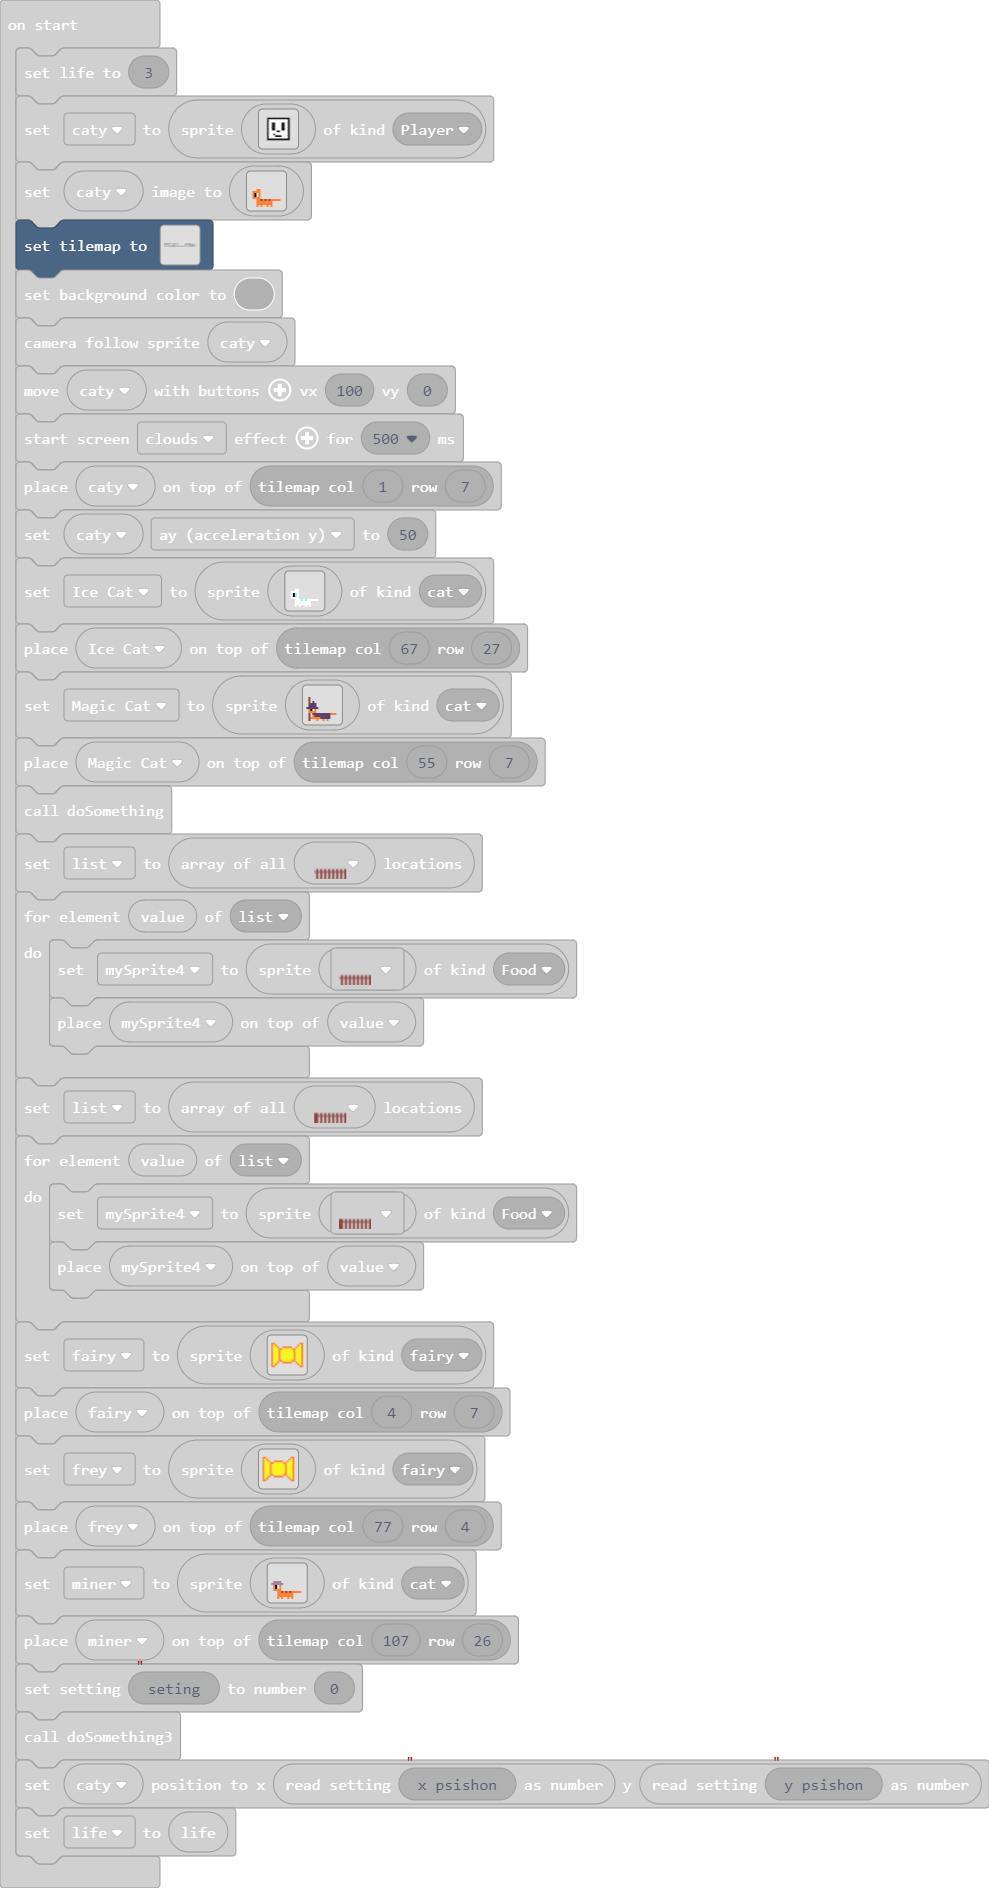
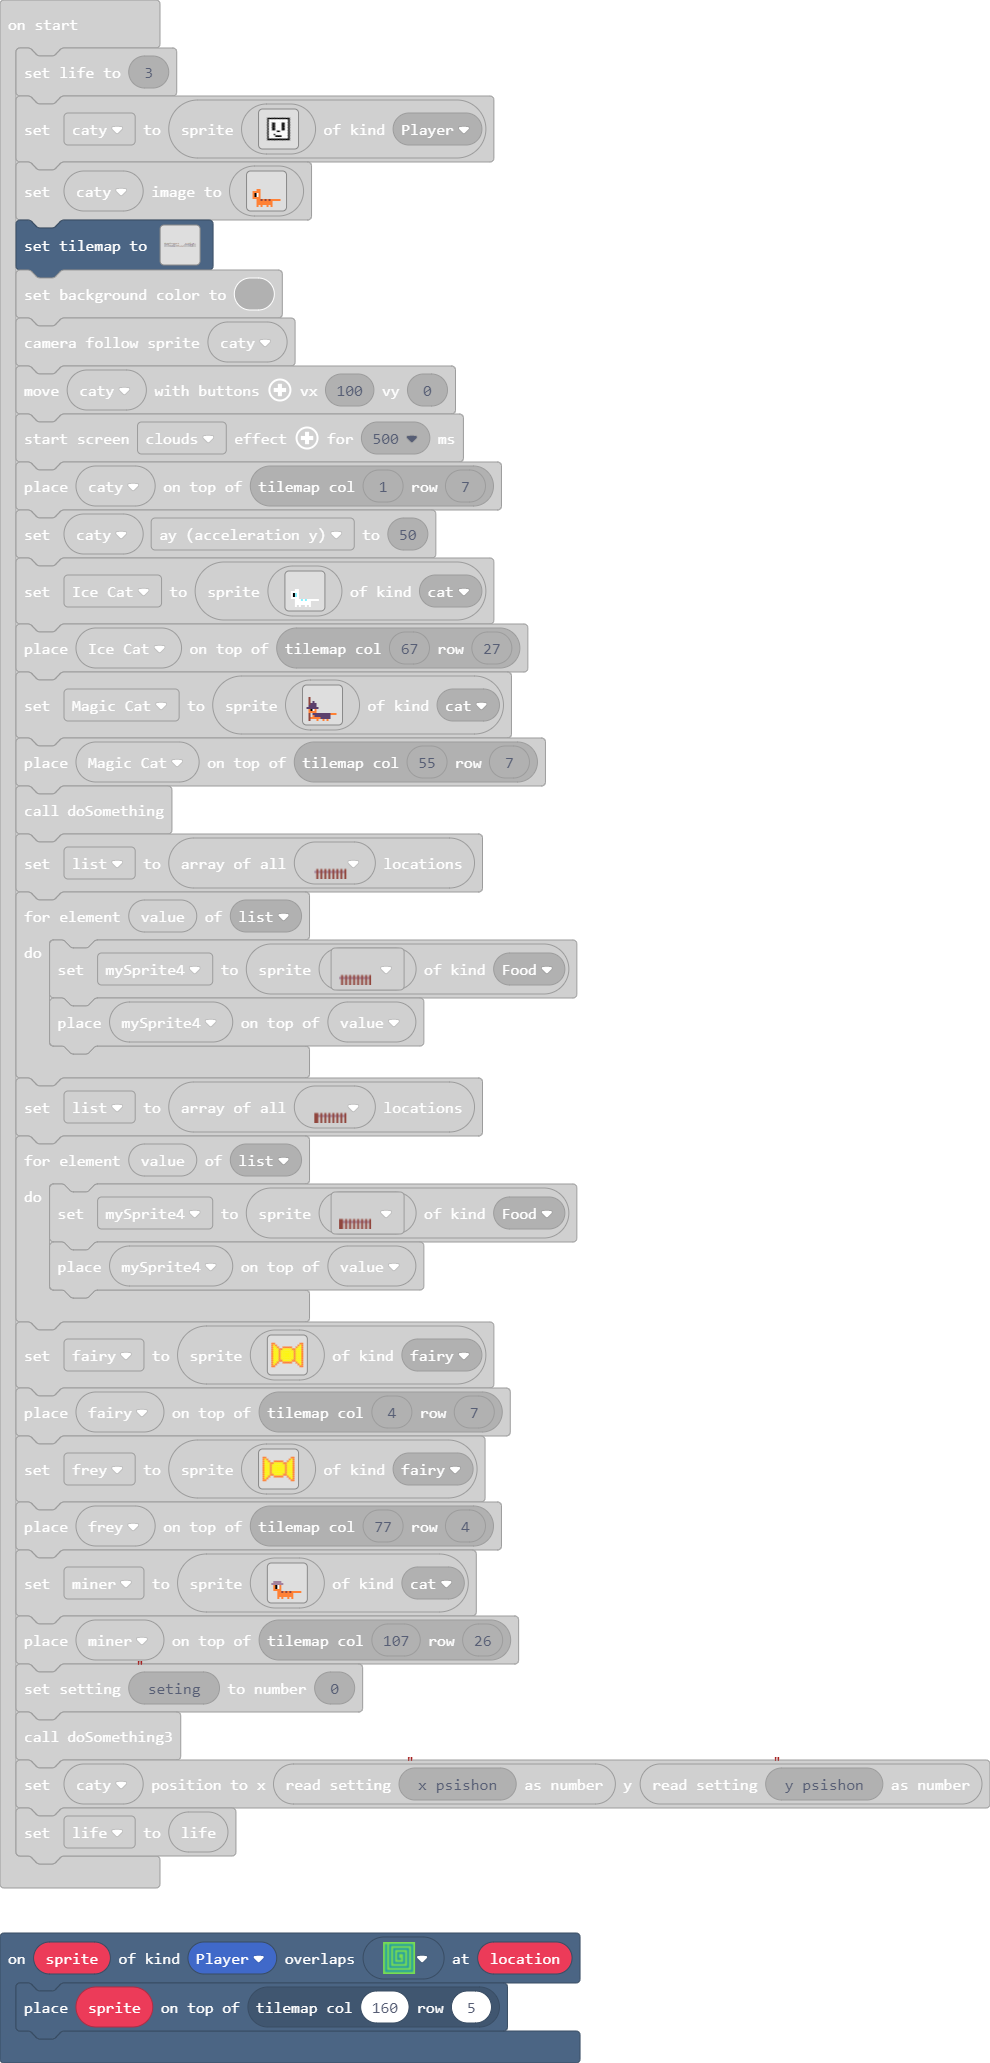
Update main.blocks, main.ts

Changed region(s): [[0.0, 0.0, 1.0, 1.0]]

diff --git a/main.ts b/main.ts
@@ -579,6 +579,101 @@ f f f f b b f f f b f f f f f f
 f f f f f f f f f f f f f f b f 
 b f f f f f f f f f f f f f f b 
 `
+    //% blockIdentity=images._tile
+    export const tile30 = img`
+a a a a a a a a a a a a a a a a 
+a 8 8 8 8 8 8 8 8 a 8 8 8 8 8 a 
+a 8 8 8 8 8 8 8 8 a 8 8 8 8 8 a 
+a a a a a a a a a a a a a a a a 
+a 8 8 8 8 8 a 8 8 8 8 8 a 8 8 a 
+a 8 8 8 8 8 a 8 8 8 8 8 a 8 8 a 
+a a a a a a a a a a a a a a a a 
+a 8 8 a 8 8 8 8 8 8 8 8 8 8 8 a 
+a 8 8 a 8 8 8 8 8 8 8 8 8 8 8 a 
+a a a a a a a a a a a a a a a a 
+a 8 8 8 8 8 8 a 8 8 8 8 8 8 8 a 
+a 8 8 8 8 8 8 a 8 8 8 8 8 8 8 a 
+a a a a a a a a a a a a a a a a 
+a 8 8 8 8 8 8 8 8 8 a 8 8 8 8 a 
+a 8 8 8 8 8 8 8 8 8 a 8 8 8 8 a 
+a a a a a a a a a a a a a a a a 
+`
+    //% blockIdentity=images._tile
+    export const tile31 = img`
+f f f f f f f f f f f f f f f f 
+f . . . . . . . . . . . . . . f 
+f . f f f f . . . . . . . . . f 
+f . f . . . . . . . . . . . . f 
+f . f . . . . . . . . . . . . f 
+f . f . . . . . . . . . . . . f 
+f . . . . . . . . . . . . . . f 
+f . . . . . . . . . . . . . . f 
+f . . . . . . . . . . . . . . f 
+f . . . . . . . . . . . . . . f 
+f . . . . . . . . . . . . f . f 
+f . . . . . . . . . . . . f . f 
+f . . . . . . . . . . . . f . f 
+f . . . . . . . . . f f f f . f 
+f . . . . . . . . . . . . . . f 
+f f f f f f f f f f f f f f f f 
+`
+    //% blockIdentity=images._tile
+    export const tile32 = img`
+. . . . . . . . . . . . . . . . 
+. . . . . . . . . . . . . . . . 
+. . . . . . . . . . . . . . . . 
+. . . . . . . . . . . . . . . . 
+. . . . . . . . . . . . . . . . 
+. . . . . . . . . . . . . . . . 
+. . . . . . . . . . . . . . . . 
+. . . . . . . . . . . . . . . . 
+. . . . . . . . . . . . . . . . 
+. . . . . . . . . . . . . . . . 
+. . . . . . . . . . . . . . . . 
+. . . . . . . . . . . . . . . . 
+. . . . . . . . . . . . . . . . 
+. . . . . . . . . . . . . . . . 
+. . . . . . . . . . . . . . . . 
+. . . . . . . . . . . . . . . . 
+`
+    //% blockIdentity=images._tile
+    export const tile33 = img`
+a a a a a a e e e e . . . . . . 
+a 8 8 8 8 8 e e e e . . . . . . 
+a 8 8 8 8 8 e e e e . . . . . . 
+a a a a a a e e e e . . . . . . 
+a 8 8 8 8 8 e e e e . . . . . . 
+a 8 8 8 8 8 e e e e . . . . . . 
+a a a a a a e e e e . . . . . . 
+a 8 8 a 8 8 e e e e . . . . . . 
+a 8 8 a 8 5 e e e e 5 . . . . . 
+a a a a a 5 e e e e 5 . . . . . 
+a 8 8 8 8 8 e e e e . . . . . . 
+a 8 8 8 8 8 e e e e . . . . . . 
+a a a a a a e e e e . . . . . . 
+a 8 8 8 8 8 e e e e . . . . . . 
+a 8 8 8 8 8 e e e e . . . . . . 
+a a a a a a e e e e . . . . . . 
+`
+    //% blockIdentity=images._tile
+    export const tile34 = img`
+7 7 7 7 7 7 7 7 7 7 7 7 7 7 7 7 
+7 6 7 6 6 6 6 6 6 6 6 6 6 6 6 7 
+7 6 7 6 7 7 7 7 7 7 7 7 7 7 6 7 
+7 6 7 6 7 6 6 6 6 6 6 6 6 7 6 7 
+7 6 7 6 7 6 7 7 7 7 7 7 6 7 6 7 
+7 6 7 6 7 6 7 6 6 6 6 7 6 7 6 7 
+7 6 7 6 7 6 7 6 7 7 6 7 6 7 6 7 
+7 6 7 6 7 6 7 6 7 7 6 7 6 7 6 7 
+7 6 7 6 7 6 7 6 6 7 6 7 6 7 6 7 
+7 6 7 6 7 6 7 7 7 7 6 7 6 7 6 7 
+7 6 7 6 7 6 6 6 6 6 6 7 6 7 6 7 
+7 6 7 6 7 7 7 7 7 7 7 7 6 7 6 7 
+7 6 7 6 6 6 6 6 6 6 6 6 6 7 6 7 
+7 6 7 7 7 7 7 7 7 7 7 7 7 7 6 7 
+7 6 6 6 6 6 6 6 6 6 6 6 6 6 6 7 
+7 7 7 7 7 7 7 7 7 7 7 7 7 7 7 7 
+`
 }
 controller.menu.onEvent(ControllerButtonEvent.Pressed, function () {
     blockSettings.remove("seting")
@@ -733,6 +828,9 @@ controller.left.onEvent(ControllerButtonEvent.Pressed, function () {
             pause(1)
         }
     }
+})
+scene.onOverlapTile(SpriteKind.Player, myTiles.tile34, function (sprite, location) {
+    tiles.placeOnTile(sprite, tiles.getTileLocation(160, 5))
 })
 controller.B.onEvent(ControllerButtonEvent.Pressed, function () {
     if (carge_or_not == 1) {
@@ -2223,7 +2321,7 @@ caty.setImage(img`
 . . . 4 . 4 . . 4 . 4 . . . . . 
 `)
 tiles.setTilemap(tiles.createTilemap(
[2 lines of base64/hex data omitted]
             img`
 . . . . . . . . . . . . . . . . . . . . . . . . . . . . . . . . . . . . . . . . . . . . . . . . . . . . . . . . . . . . . . . . . . . . . . . . . . . . . . . . . . . . . . . . . . . . . . . . . . . . . . . . . . . . . . . . . . . . . . . . . . . . . . . . . . . . . . . . . . . . . . . . . . . . . . . . . . . . . . . . . . . . . . . . . . . . . . . . . . . . . . . . . . . . . . . . . . . . . . . . 
 . . . . . . . . . . . . . . . . . . . . . . . . . . . . . . . . . . . . . . . . . . . . . . . . . . . . . . . . . . . . . . . . . . . . . . . . . . . . . . . . . . . . . . . . . . . . . . . . . . . . . . . . . . . . . . . . . . . . . . . . . . . . . . . . . . . . . . . . . . . . . . . . . . . . . . . . . . . . . . . . . . . . . . . . . . . . . . . . . . . . . . . . . . . . . . . . . . . . . . . . 
@@ -2231,11 +2329,11 @@ tiles.setTilemap(tiles.createTilemap(
 . . . . . . . . . . . . . . . . . . . . . . . . . . . . . . . . . . . . . . . . . . . . . . . . . . . . . . . . . . . . . . . . . . . . . . . . . . . . . . . . . . . . . . . . . . . . . . . . . . . . . . . . . . . . . . . . . . . . . . . . . . . . . . . . . . . . . . . . . . . . . . . . . . . . . . . . . . . . . . . . . . . . . . . . . . . . . . . . . . . . . . . . . . . . . . . . . . . . . . . . 
 . . . . . . . . . . . . . . . . . . . . . . . . . . . . . . . . . . . . . . . . . . . . . . . . . . . . . . . . . . . . . . . . . . . . . . . . . . . . . . . . . . . . . . . . . . . . . . . . . . . . . . . . . . . . . . . . . . . . . . . . . . . . . . . . . . . . . . . . . . . . . . . . . . . . . . . . . . . . . . . . . . . . . . . . . . . . . . . . . . . . . . . . . . . . . . . . . . . . . . . . 
 . . . . . . . . . . . . . . . . . . . . . . . . . . . . . . . . . . . . . . . . . . . . . . . . . . . . . . . . . . . . . . . . . . . . . . . . . . . . . . . . . . . . . . . . . . . 2 . . . . . . . . . . . . . . . . . . . . . . . . . . . . . . . . . . . . . . . . . . . . . . . . . . . . . . . . . . . . . . . . . . . . . . . . . . . . . . . . . . . . . . . . . . . . . . . . . . . . . . . . . . . . 
-. . . . . . . . . . . . . . . . . . . . . . . . . . . . . . . . . . . . . . . . . . . . . . . . . . . . . . . . . . . . . . . . . . . . . . . . . . . . . . . . . . . . . . . . . . . 2 . . . . . . . . . . . . . . . . . . . . . . . . . . . . . . . . . . . . . . . . . . . . . . . . . . . . . . . . . . . . . . . . . . . . . . . . . . . . . . . . . . . . . . . . . . . . . . . . . . . . . . . . . . . . 
-. . . . . . . . . . . . . . . . . . . . . . . . . . . . . . . . . . . . . . . . . . . . . . . . . . . . . . . . . . . . 2 2 2 2 2 2 2 2 2 2 2 2 2 2 2 2 2 2 2 2 2 2 2 . . 2 2 2 2 2 . 2 . . . . . . . . . . . . . . . . . . . . . . . . . . . . . . . . . . . . . . . . . . . . . . . . . . . . . . . . . . 2 2 2 . . . . . . . . . . . . . . . . . . . . . . . . . . . . . . . . . . . . . . . . . . . . . . . 
-. . . . . . . . . . . . . . . . . . . . . 2 2 2 2 2 2 2 2 2 2 2 2 2 2 2 2 2 2 . . . . . . . . . . . . . . 2 2 2 2 2 2 2 2 2 2 2 2 2 2 2 2 2 2 2 2 2 2 2 2 2 2 2 2 2 2 . . 2 2 2 2 2 . . . . . . . . . . . . . . . . . . . . . . . . . . . . . . . . . . . . . . . . . . . 2 . . . 2 2 . . . . . . . . . . . 2 2 2 2 2 2 2 2 2 2 2 2 2 2 2 2 . . . . . . . . . . . . . . . . . . . . . . . . . . . . . . . . . . 
-2 2 2 2 2 2 2 2 2 2 2 2 2 2 2 . . . . . 2 2 2 2 2 2 2 . . . . . . . 2 2 2 2 2 2 2 2 2 2 2 2 2 2 2 2 2 2 2 2 2 2 2 2 2 2 2 2 2 2 2 2 2 2 2 2 2 2 2 2 2 2 2 2 2 2 2 2 2 . . 2 2 2 2 2 2 2 . . . . . . . . . . . . . . . . . . . . . . . . . . . . . . . . . . . . . . . . 2 2 . . . 2 2 2 . . . . . . . . . 2 2 2 2 2 2 2 2 2 2 2 2 2 2 2 2 2 2 . . . . . . . . . . . . . . . . . . . . . . . . . . . . . . . . . 
-2 2 2 2 2 2 2 2 2 2 2 2 2 2 2 2 . . . 2 2 2 2 2 2 2 2 . . . . . . . 2 2 2 2 2 . . . . . . . . . . . . . . 2 2 2 2 2 2 2 2 2 2 2 2 2 2 2 2 2 2 2 2 2 2 2 2 2 2 2 2 . . . . 2 2 2 2 2 2 2 . . . . . . . . . . . . . . . . . . . . . . . . . . . . . . . . . . . . . . . 2 2 2 . . . 2 2 2 . . . . . . . . 2 2 2 2 2 2 2 2 2 2 2 2 2 2 2 2 2 2 2 2 2 2 . . . . . . . . . . . . . . . . . . . . . . . . . . . . . . 
+. . . . . . . . . . . . . . . . . . . . . . . . . . . . . . . . . . . . . . . . . . . . . . . . . . . . . . . . . . . . . . . . . . . . . . . . . . . . . . . . . . . . . . . . . . . 2 . . . . . . . . . . . . . . . . . . . . . . . . . . . . . . . . . . . . . . . . . . . . . . . . . . . . . . . . . . . . . . . . . . . . . . . . . . . . . . . . . . . . . . . . 2 2 2 2 2 2 . . . . . . . . . . . . . . 
+. . . . . . . . . . . . . . . . . . . . . . . . . . . . . . . . . . . . . . . . . . . . . . . . . . . . . . . . . . . . 2 2 2 2 2 2 2 2 2 2 2 2 2 2 2 2 2 2 2 2 2 2 2 . . 2 2 2 2 2 . 2 . . . . . . . . . . . . . . . . . . . . . . . . . . . . . . . . . . . . . . . . . . . . . . . . . . . . . . . . . . 2 2 2 . . . . . . . . . . . . . . . . . . . . . . . . . 2 2 2 . . . . 2 2 . . . . . . . . . . . . . 
+. . . . . . . . . . . . . . . . . . . . . 2 2 2 2 2 2 2 2 2 2 2 2 2 2 2 2 2 2 . . . . . . . . . . . . . . 2 2 2 2 2 2 2 2 2 2 2 2 2 2 2 2 2 2 2 2 2 2 2 2 2 2 2 2 2 2 . . 2 2 2 2 2 . . . . . . . . . . . . . . . . . . . . . . . . . . . . . . . . . . . . . . . . . . . 2 . . . 2 2 . . . . . . . . . . . 2 2 2 2 2 2 2 2 2 2 2 2 2 2 2 2 . . . . . . . . . . . 2 . 2 . . . . . . 2 . . . . . . . . . . . . . 
+2 2 2 2 2 2 2 2 2 2 2 2 2 2 2 . . . . . 2 2 2 2 2 2 2 . . . . . . . 2 2 2 2 2 2 2 2 2 2 2 2 2 2 2 2 2 2 2 2 2 2 2 2 2 2 2 2 2 2 2 2 2 2 2 2 2 2 2 2 2 2 2 2 2 2 2 2 2 . . 2 2 2 2 2 2 2 . . . . . . . . . . . . . . . . . . . . . . . . . . . . . . . . . . . . . . . . 2 2 . . . 2 2 2 . . . . . . . . . 2 2 2 2 2 2 2 2 2 2 2 2 2 2 2 2 2 2 . . . . . . . . . 2 . . 2 . . . . . . 2 . . . . . . . . . . . . . 
+2 2 2 2 2 2 2 2 2 2 2 2 2 2 2 2 . . . 2 2 2 2 2 2 2 2 . . . . . . . 2 2 2 2 2 . . . . . . . . . . . . . . 2 2 2 2 2 2 2 2 2 2 2 2 2 2 2 2 2 2 2 2 2 2 2 2 2 2 2 2 . . . . 2 2 2 2 2 2 2 . . . . . . . . . . . . . . . . . . . . . . . . . . . . . . . . . . . . . . . 2 2 2 . . . 2 2 2 . . . . . . . . 2 2 2 2 2 2 2 2 2 2 2 2 2 2 2 2 2 2 2 2 2 2 . . . . . 2 . . . 2 . . . . . . . . . . . . . . . . . . . . 
 2 2 2 2 2 2 2 2 2 2 2 2 2 2 2 2 . . . 2 2 2 2 2 2 2 2 2 . . . . . . 2 2 2 2 2 . . . . . . . . . . . . . . . 2 2 2 2 2 2 2 2 2 2 2 2 2 2 2 2 2 2 2 2 2 2 2 2 2 2 . . . . . . 2 2 2 2 2 2 . . . . . . . . . . . . . . . . . . . . . . . . . . . . . . . . . . . . . . 2 2 2 2 . . . 2 2 2 . . . . . . . . 2 2 2 2 2 2 2 2 2 2 2 2 2 2 2 2 2 2 2 2 2 2 2 2 2 2 2 2 2 2 2 2 2 2 2 2 2 2 2 2 2 2 2 2 2 2 2 2 2 2 2 2 
 2 2 2 2 2 2 2 2 2 2 2 2 2 2 2 2 . . . 2 2 2 2 2 2 2 2 2 2 . . . . . . 2 2 2 . . . . . . . . . . . . . . . . . . 2 2 2 2 2 2 2 2 2 2 2 2 2 2 2 2 2 2 2 2 2 2 2 . . . . . . . . 2 2 2 2 2 . . . . . . . . . . . . . . . . . . . . . . . . . . . . . . . . . . . . . 2 2 2 2 2 . . . 2 2 2 2 2 2 2 2 2 2 2 2 2 2 2 2 2 2 2 2 2 2 2 2 2 2 2 2 2 2 2 2 2 2 2 2 2 2 2 2 2 2 2 2 2 2 2 2 2 2 2 2 2 2 2 2 2 2 2 2 2 2 2 
 2 2 2 2 2 2 2 2 2 2 2 2 2 2 2 . . . . 2 2 2 2 2 2 2 2 2 2 . . . . . . 2 2 2 . . . . . . . . . . . . . . . . . . . . . . . . . . 2 2 2 2 2 2 2 2 2 2 2 2 2 2 . . . . . . . . . . 2 2 2 2 . . . . . . . . . . . . . . . . . . . . . . . . . . . . . . . . . . . . 2 2 2 2 2 2 . . . 2 2 2 2 2 2 2 2 2 2 2 2 2 2 2 2 2 2 2 2 2 2 2 2 2 2 2 2 2 2 2 2 2 2 2 2 2 2 2 2 2 2 2 2 2 2 2 2 2 2 2 2 2 2 2 2 2 2 2 2 2 2 2 
@@ -2247,8 +2345,8 @@ tiles.setTilemap(tiles.createTilemap(
 2 2 2 2 2 . . . . . . . . 2 2 2 2 2 2 2 2 2 2 2 2 2 2 2 2 2 2 2 2 2 2 2 2 2 2 2 2 2 2 2 2 2 2 2 2 2 2 2 2 2 2 2 2 2 2 2 2 2 2 . . . 2 2 2 2 2 2 2 2 2 2 2 2 2 2 2 2 2 2 2 2 2 2 2 2 2 2 2 . . . . . . . . . . . . . . . . . . . . . . . . . . . . . 2 2 2 2 2 2 2 2 2 2 2 2 2 2 2 2 2 2 2 2 2 2 2 2 2 2 2 2 2 2 2 2 2 . . 2 2 2 2 2 2 2 2 2 . . . . . . . . . . . . . 2 2 2 2 2 2 2 2 2 2 2 2 2 2 2 2 2 2 2 2 2 
 2 2 2 2 2 . . . . . . . 2 2 2 2 2 2 2 2 2 2 2 2 2 2 2 2 2 2 2 2 2 2 2 2 2 2 2 2 2 2 2 2 2 2 2 2 2 2 2 2 2 2 2 2 2 2 2 2 2 2 2 . . . 2 2 2 2 2 2 2 2 2 2 2 2 2 2 2 2 2 2 2 2 2 2 2 2 2 2 2 . . . . . . . . . . . . . . . . . . . . . . . . . . . . 2 2 2 2 2 2 2 2 2 2 2 2 2 2 2 2 2 2 2 2 2 2 2 2 2 2 2 2 2 2 2 2 2 2 . . 2 2 2 2 2 2 2 2 2 . . . . . . . . . . . . . 2 2 2 2 2 2 2 2 2 2 2 2 2 2 2 2 2 2 2 2 2 
 2 2 2 2 2 2 2 2 2 2 2 2 2 2 2 2 2 2 2 2 2 2 2 2 2 2 2 2 2 2 2 2 2 2 2 2 2 2 2 2 2 2 2 2 2 2 2 2 2 2 2 2 2 2 2 2 2 2 2 2 2 2 2 . . . 2 2 2 2 2 2 2 2 2 2 2 2 2 2 2 2 2 2 2 2 2 2 2 2 2 2 2 . 2 2 2 2 . . . 2 2 2 . . . . 2 2 2 . . . 2 2 2 . . . 2 2 2 2 2 2 2 2 2 2 2 2 2 2 2 2 2 2 2 2 2 2 2 2 2 2 2 2 2 2 2 2 2 2 2 . . 2 2 2 2 2 2 2 2 2 . . . . . . . . . . . . . 2 2 2 2 2 2 2 2 2 2 2 2 2 2 2 2 2 2 2 2 2 
-2 2 2 2 2 2 2 2 2 2 2 2 2 2 2 2 2 2 2 2 2 2 2 2 2 2 2 2 2 2 2 2 2 2 2 2 2 2 2 2 . . . . 2 2 2 2 2 2 2 2 2 . . . . . . . . . . . . . 2 2 2 2 2 2 2 2 2 2 2 2 2 2 2 2 2 2 2 2 2 2 2 2 2 2 . . . . . . . . . . . . . . . . . . . . . . . . . . . 2 2 2 2 2 2 2 2 2 2 2 2 2 2 2 2 2 2 2 2 2 2 2 2 2 2 2 2 2 2 2 2 2 2 2 2 . . 2 2 2 2 2 2 2 2 2 . . . . . . . . . . . . 2 2 2 2 2 2 2 2 2 2 2 2 2 2 2 2 2 2 2 2 2 2 
-2 2 2 2 2 2 2 2 2 2 2 2 2 2 2 2 2 2 2 2 2 2 2 2 2 2 2 2 2 2 2 2 2 2 2 2 2 2 2 2 . . . . 2 2 2 2 2 2 . . . . . . . . . . . . . . . . 2 2 2 2 2 2 2 2 2 2 2 2 2 2 2 2 2 2 2 2 2 2 2 2 2 . . . . . . . . . . . . . . 2 2 2 2 2 2 2 2 . . . . . 2 2 2 2 2 2 2 2 2 2 2 2 2 2 2 2 2 2 2 2 2 2 2 2 2 2 2 2 2 2 2 2 2 2 2 2 2 . . . . . . . . . . . . . . . . . . . . . . . 2 2 2 2 2 2 2 2 2 2 2 2 2 2 2 2 2 2 2 2 2 2 
+2 2 2 2 2 2 2 2 2 2 2 2 2 2 2 2 2 2 2 2 2 2 2 2 2 2 2 2 2 2 2 2 2 2 2 2 2 2 2 2 . . . . 2 2 2 2 2 2 2 2 2 . . . . . . . . . . . . . 2 2 2 2 2 2 2 2 2 2 2 2 2 2 2 2 2 2 2 2 2 2 2 2 2 2 . . . . . . . . . . . . . . . . . . . . . . . . . . . 2 2 2 2 2 2 2 2 2 2 2 2 2 2 2 2 2 2 2 2 2 2 2 2 2 2 2 2 2 2 2 2 2 2 2 2 . . . 2 2 2 2 2 2 2 2 . . . . . . . . . . . . 2 2 2 2 2 2 2 2 2 2 2 2 2 2 2 2 2 2 2 2 2 2 
+2 2 2 2 2 2 2 2 2 2 2 2 2 2 2 2 2 2 2 2 2 2 2 2 2 2 2 2 2 2 2 2 2 2 2 2 2 2 2 2 . . . . 2 2 2 2 2 2 . . . . . . . . . . . . . . . . 2 2 2 2 2 2 2 2 2 2 2 2 2 2 2 2 2 2 2 2 2 2 2 2 2 . . . . . . . . . . . . . . 2 2 2 2 2 2 2 2 . . . . . 2 2 2 2 2 2 2 2 2 2 2 2 2 2 2 2 2 2 2 2 2 2 2 2 2 2 2 2 2 2 2 2 2 2 2 2 2 . . . . . . . . . . . . . . . . . . . . . . . 2 2 2 2 . 2 2 2 2 2 2 2 2 2 2 2 2 2 2 2 2 2 
 2 2 2 2 2 2 2 2 2 2 2 2 2 2 2 2 2 2 2 2 2 2 2 2 2 2 2 2 2 2 . . . . . . . . . 2 2 2 . 2 2 . . . . . . . . . . . . 2 2 2 2 2 2 . . . 2 2 2 2 2 2 2 2 2 2 2 2 2 2 2 2 2 2 2 2 2 2 2 2 . . . . . . . . . . . . . . . 2 . . . . . . 2 . . . . 2 2 2 2 2 2 2 2 2 2 2 2 2 2 2 2 2 2 2 2 2 2 2 2 2 2 2 2 2 2 2 2 2 2 2 2 2 2 . . . . . . . . . . . . . . . . . . . . . . 2 2 2 2 2 2 2 2 2 2 2 2 2 2 2 2 2 2 2 2 2 2 2 
 2 2 2 2 2 2 2 2 2 2 2 2 2 2 2 2 2 2 2 2 2 2 2 2 2 2 2 2 2 2 . . . . . . . . . . . . . . . . . . . . . . . . 2 2 2 2 2 2 . . . . . . . . . 2 2 2 2 2 2 2 2 2 2 2 2 2 2 2 2 2 2 2 2 2 . . . . . . . . . . . . . . . . . . . . . . 2 . . . 2 2 2 2 2 2 2 2 2 2 2 2 2 2 2 2 2 2 2 2 2 2 2 2 2 2 2 2 2 2 2 2 2 2 2 2 2 2 2 2 2 2 2 2 2 2 2 2 2 2 2 2 2 2 2 2 2 2 2 2 2 2 2 2 2 2 2 2 2 2 2 2 2 2 2 2 2 2 2 2 2 2 2 2 
 2 2 2 2 2 2 2 2 2 2 2 2 2 2 2 2 2 2 2 2 2 2 2 2 2 2 2 2 2 2 2 2 2 2 2 2 2 2 . . . . . . . . 2 2 2 2 2 2 2 2 2 2 2 2 2 2 . . . . . . . . . 2 2 2 2 2 2 2 2 2 2 2 2 2 2 2 2 2 2 2 2 2 . . . . . . . . . . . . . . . . . . . . . . 2 . 2 2 2 2 2 2 2 2 2 2 2 2 2 2 2 2 2 2 2 2 2 2 2 2 2 2 2 2 2 2 2 2 2 2 2 2 2 2 2 2 2 2 2 2 2 2 2 2 2 2 2 2 2 2 2 2 2 2 2 2 2 2 2 2 2 2 2 2 2 2 2 2 2 2 2 2 2 2 2 2 2 2 2 2 2 2 
@@ -2257,7 +2355,7 @@ tiles.setTilemap(tiles.createTilemap(
 2 2 2 2 2 2 2 2 2 2 2 2 2 2 2 2 2 2 2 2 2 2 2 2 2 2 2 2 2 2 2 2 2 2 2 2 2 2 2 2 2 2 2 2 2 2 . . . . . . . . . . . . . 2 . . . . . . . . . 2 2 2 2 2 2 2 2 2 2 2 2 2 2 2 2 2 2 2 2 2 2 2 2 2 2 2 2 2 2 2 2 2 2 2 2 2 2 2 2 2 2 2 2 2 2 2 2 2 2 2 2 2 2 2 2 2 2 2 2 2 2 2 2 2 2 2 2 2 2 2 2 2 2 2 2 2 2 2 2 2 2 2 2 2 2 2 2 2 2 2 2 2 2 2 2 2 2 2 2 2 2 2 2 2 2 2 2 2 2 2 2 2 2 2 2 2 2 2 2 2 2 2 2 2 2 2 2 2 2 2 
 2 2 2 2 2 2 2 2 2 2 2 2 2 2 2 2 2 2 2 2 2 2 2 2 2 2 2 2 2 2 2 2 2 2 2 2 2 2 2 2 2 2 2 2 2 2 2 2 2 2 2 2 2 2 2 2 2 2 2 2 . . . . . . . . . 2 2 2 2 2 2 2 2 2 2 2 2 2 2 2 2 2 2 2 2 2 2 2 2 2 2 2 2 2 2 2 2 2 2 2 2 2 2 2 2 2 2 2 2 2 2 2 2 2 2 2 2 2 2 2 2 2 2 2 2 2 2 2 2 2 2 2 2 2 2 2 2 2 2 2 2 2 2 2 2 2 2 2 2 2 2 2 2 2 2 2 2 2 2 2 2 2 2 2 2 2 2 2 2 2 2 2 2 2 2 2 2 2 2 2 2 2 2 2 2 2 2 2 2 2 2 2 2 2 2 2 
 `,
-            [myTiles.tile0,sprites.castle.tilePath2,myTiles.tile1,myTiles.tile2,myTiles.tile3,myTiles.tile4,myTiles.tile5,myTiles.tile6,myTiles.tile7,myTiles.tile8,myTiles.tile9,myTiles.tile10,myTiles.tile11,myTiles.tile12,myTiles.tile13,sprites.dungeon.darkGroundCenter,sprites.dungeon.greenOuterNorth2,sprites.dungeon.greenOuterWest0,sprites.dungeon.greenOuterNorthEast,sprites.dungeon.greenOuterEast2,myTiles.tile14,myTiles.tile15,myTiles.tile16,sprites.dungeon.collectibleInsignia,sprites.dungeon.chestClosed,sprites.dungeon.collectibleRedCrystal,sprites.dungeon.darkGroundNorthWest1,sprites.dungeon.hazardLava0,sprites.dungeon.hazardLava1,myTiles.tile17,sprites.dungeon.darkGroundNorthEast1,myTiles.tile18,myTiles.tile19,myTiles.tile20,myTiles.tile21,myTiles.tile22,myTiles.tile23,sprites.dungeon.darkGroundNorth,sprites.dungeon.darkGroundNorthWest0,sprites.dungeon.darkGroundNorthEast0,sprites.dungeon.collectibleBlueCrystal,sprites.dungeon.buttonTeal,myTiles.tile24,myTiles.tile25,myTiles.tile26,sprites.dungeon.floorDark2,sprites.dungeon.floorMixed,sprites.dungeon.floorLight2,sprites.dungeon.floorLight5,sprites.dungeon.floorDarkDiamond,myTiles.tile27,myTiles.tile28,myTiles.tile29],
+            [myTiles.tile0,sprites.castle.tilePath2,myTiles.tile1,myTiles.tile2,myTiles.tile3,myTiles.tile4,myTiles.tile5,myTiles.tile6,myTiles.tile7,myTiles.tile8,myTiles.tile9,myTiles.tile10,myTiles.tile11,myTiles.tile12,myTiles.tile13,sprites.dungeon.darkGroundCenter,sprites.dungeon.greenOuterNorth2,sprites.dungeon.greenOuterWest0,sprites.dungeon.greenOuterNorthEast,sprites.dungeon.greenOuterEast2,myTiles.tile14,myTiles.tile15,myTiles.tile16,sprites.dungeon.collectibleInsignia,sprites.dungeon.chestClosed,sprites.dungeon.collectibleRedCrystal,sprites.dungeon.darkGroundNorthWest1,sprites.dungeon.hazardLava0,sprites.dungeon.hazardLava1,myTiles.tile17,sprites.dungeon.darkGroundNorthEast1,myTiles.tile18,myTiles.tile19,myTiles.tile20,myTiles.tile21,myTiles.tile22,myTiles.tile23,sprites.dungeon.darkGroundNorth,sprites.dungeon.darkGroundNorthWest0,sprites.dungeon.darkGroundNorthEast0,sprites.dungeon.collectibleBlueCrystal,sprites.dungeon.buttonTeal,myTiles.tile24,myTiles.tile25,myTiles.tile26,sprites.dungeon.floorDark2,sprites.dungeon.floorMixed,sprites.dungeon.floorLight2,sprites.dungeon.floorLight5,sprites.dungeon.floorDarkDiamond,myTiles.tile27,myTiles.tile28,myTiles.tile29,myTiles.tile30,myTiles.tile31,myTiles.tile32,myTiles.tile33,sprites.castle.tilePath1,myTiles.tile34],
             TileScale.Sixteen
         ))
 scene.setBackgroundColor(8)
